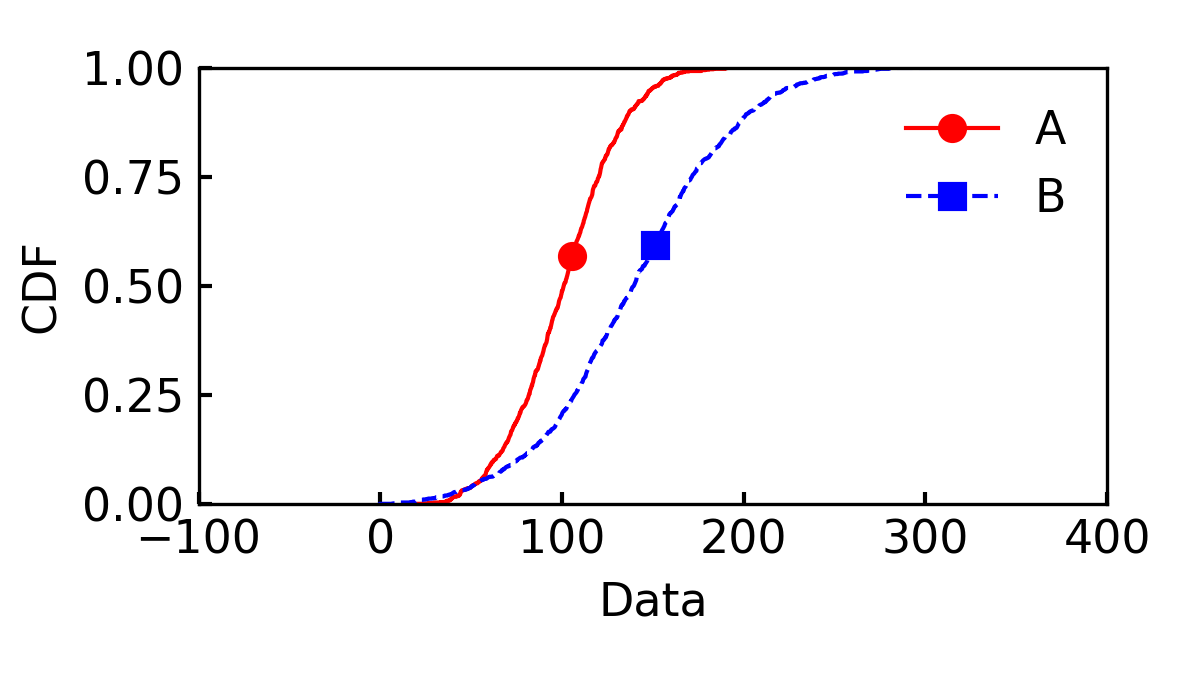
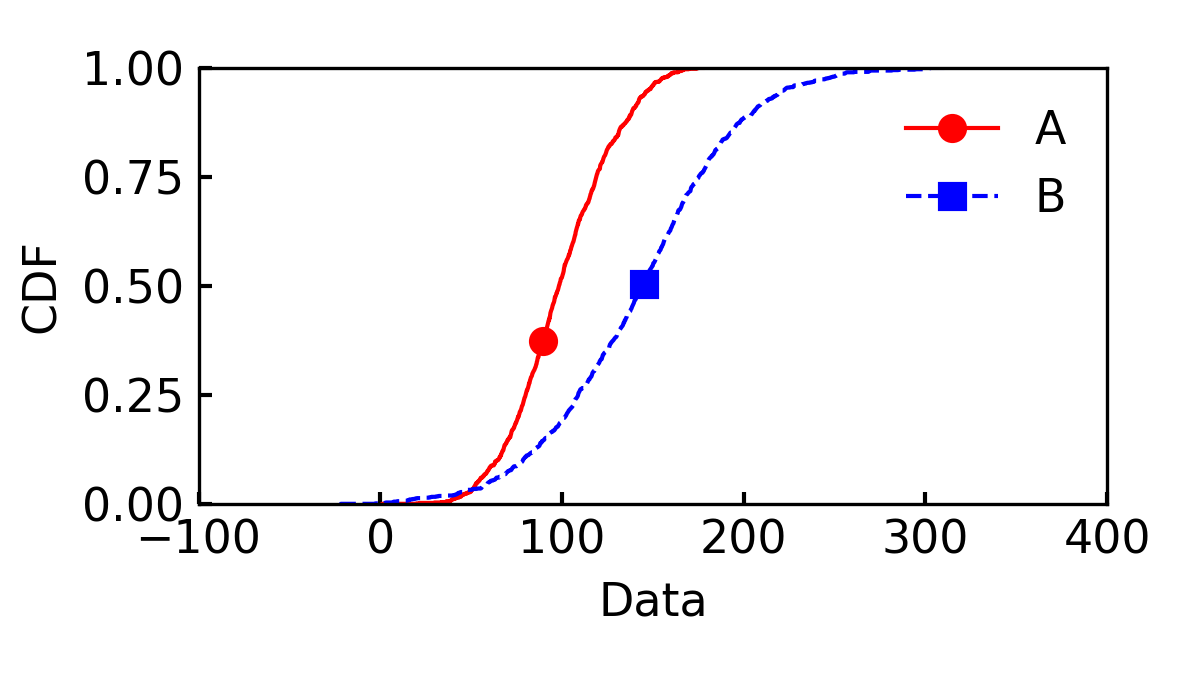
fixed CDF initials - final

diff --git a/fastplot/__init__.py b/fastplot/__init__.py
@@ -87,8 +87,14 @@ def plot(data, path, mode = 'line',
         e = ECDF(s)
         if xscale == 'log':
             x = np.logspace(np.log10(min(s)), np.log10(max(s)), NUM_BIN_CDF )
+            y = e(x)
         else:
             x = np.linspace(min(s), max(s), NUM_BIN_CDF )
+            y = e(x)
+            # Fix initial point
+            x = np.concatenate( (np.array([min(s)]), x) )
+            y = np.concatenate( (np.array([0]), y) )
+
         y = e(x)
         plt.plot(x,y, linewidth = linewidth, **plot_args)
         if ylabel is None:
